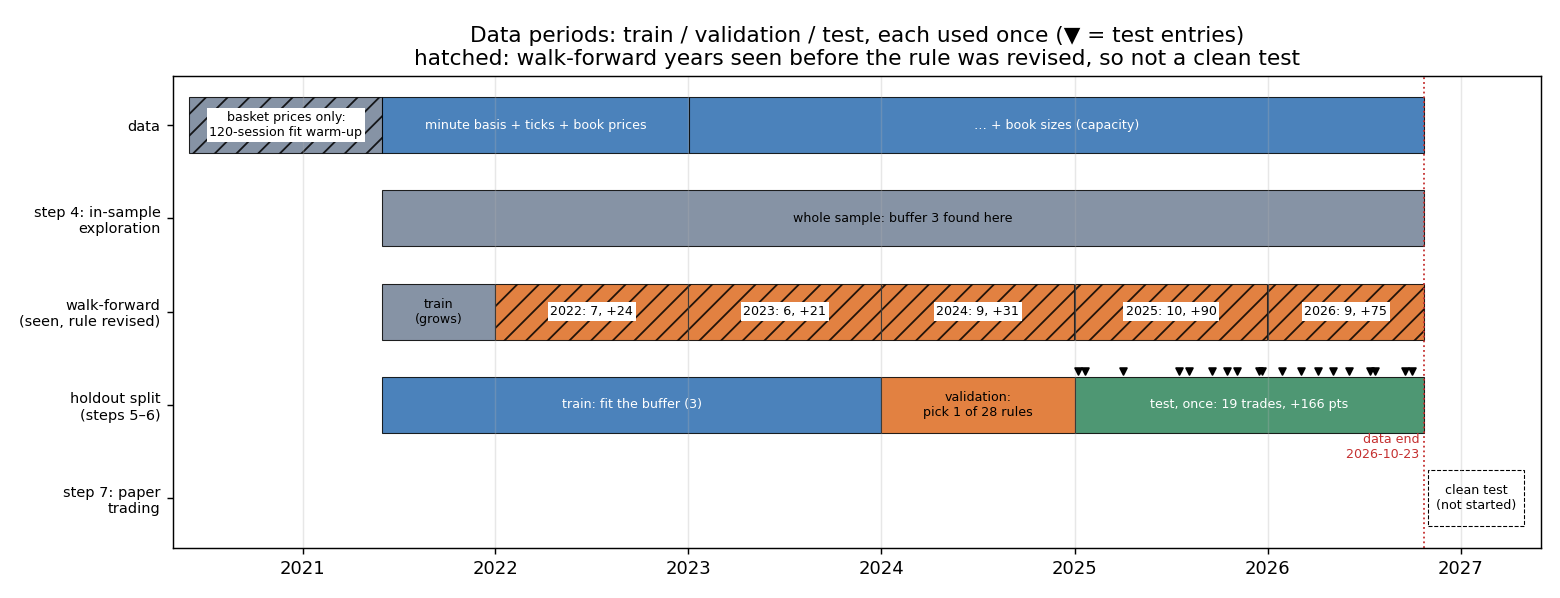
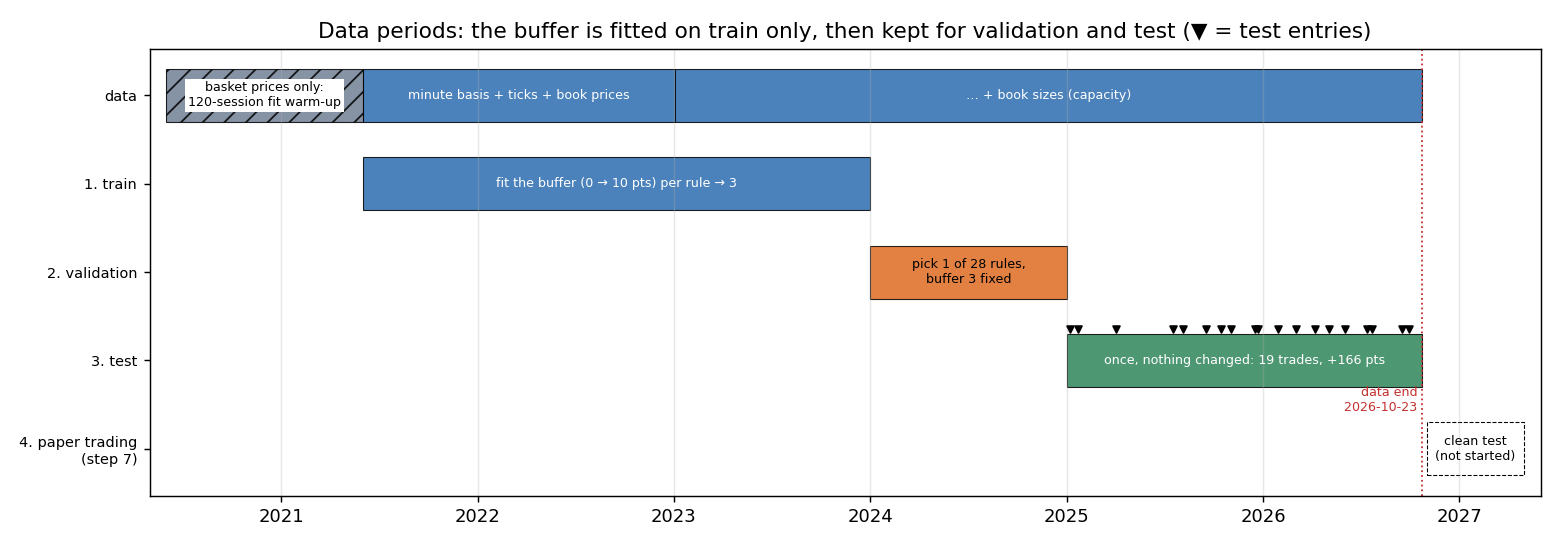
project5: keep the train buffer for validation and test (no refit)
The buffer is fitted on train only and kept fixed; validation picks the
rule, test is scored once. Results unchanged (buffer 3, 19 test trades,
+165.9). The data-periods chart now shows only train / validation / test
and paper trading.

Changed region(s): [[0.0, 0.0311, 1.0, 0.9652], [0.9846, 0.0934, 1.0, 0.1245]]

diff --git a/scripts/make_figures.py b/scripts/make_figures.py
@@ -204,48 +204,43 @@ def capacity(R: Path, out: Path) -> None:
 
 
 def data_periods(R: Path, out: Path) -> None:
-    """Which data each stage saw: warm-up, step-4 exploration, walk-forward, the train /
-    validation / test split, paper trading."""
+    """Which data each stage saw: warm-up, train / validation / test, paper trading."""
     T = pd.Timestamp
     start, end = T("2021-06-01"), T("2026-10-23")
-    folds = pd.read_csv(R / "walkforward_intraday_expiry" / "folds.csv")
     test = pd.read_csv(R / "holdout_split" / "test_trades.csv", parse_dates=["date"])
     var = pd.read_csv(R / "holdout_split" / "variants.csv")
-    rows = []                                        # (label, [(from, to, colour, hatch, text)])
-    rows.append(("data", [(T("2020-06-01"), start, GREY, "//", "basket prices only:\n120-session fit warm-up"),
-                          (start, T("2023-01-03"), BLUE, "", "minute basis + ticks + book prices"),
-                          (T("2023-01-03"), end, BLUE, "", "… + book sizes (capacity)")]))
-    rows.append(("step 4: in-sample\nexploration", [(start, end, GREY, "", "whole sample: buffer 3 found here")]))
-    wf = [(start, T("2022-01-01"), GREY, "", "train\n(grows)")]
-    for f in folds.itertuples():
-        y0, y1 = T(f"{f.test_year}-01-01"), min(T(f"{f.test_year}-12-31"), end)
-        wf.append((y0, y1, ORANGE, "//", f"{f.test_year}: {f.test_n}, {f.test_total:+.0f}"))
-    rows.append(("walk-forward\n(seen, rule revised)", wf))
-    n_var = len(var)
-    rows.append(("holdout split\n(steps 5–6)", [
-        (start, T("2024-01-01"), BLUE, "", "train: fit the buffer (3)"),
-        (T("2024-01-01"), T("2025-01-01"), ORANGE, "", f"validation:\npick 1 of {n_var} rules"),
-        (T("2025-01-01"), end, GREEN, "", f"test, once: {len(test)} trades, {test['net'].sum():+.0f} pts")]))
-    rows.append(("step 7: paper\ntrading", [(T("2026-11-01"), T("2027-05-01"), "white", "", "clean test\n(not started)")]))
+    b = test["buffer"].iloc[0]
+    rows = [                                         # (label, [(from, to, colour, hatch, text)])
+        ("data", [(T("2020-06-01"), start, GREY, "//", "basket prices only:\n120-session fit warm-up"),
+                  (start, T("2023-01-03"), BLUE, "", "minute basis + ticks + book prices"),
+                  (T("2023-01-03"), end, BLUE, "", "… + book sizes (capacity)")]),
+        ("1. train", [(start, T("2024-01-01"), BLUE, "",
+                       f"fit the buffer (0 → 10 pts) per rule → {b:g}")]),
+        ("2. validation", [(T("2024-01-01"), T("2025-01-01"), ORANGE, "",
+                            f"pick 1 of {len(var)} rules,\nbuffer {b:g} fixed")]),
+        ("3. test", [(T("2025-01-01"), end, GREEN, "",
+                      f"once, nothing changed: {len(test)} trades, {test['net'].sum():+.0f} pts")]),
+        ("4. paper trading\n(step 7)", [(T("2026-11-01"), T("2027-05-01"), "white", "", "clean test\n(not started)")]),
+    ]
 
-    fig, ax = plt.subplots(figsize=(12, 4.6))
+    fig, ax = plt.subplots(figsize=(12, 4.2))
     for i, (lab, bars) in enumerate(rows):
         yy = len(rows) - 1 - i
-        for a, b, c, h, txt in bars:
-            ax.barh(yy, (b - a).days, left=a, height=0.6, color=c, alpha=0.85 if c != "white" else 1,
+        for a, b_, c, h, txt in bars:
+            ax.barh(yy, (b_ - a).days, left=a, height=0.6, color=c, alpha=0.85 if c != "white" else 1,
                     hatch=h, edgecolor="black", lw=0.6, ls="--" if c == "white" else "-")
             light = c in (GREY, "white", ORANGE) or h
-            ax.text(a + (b - a) / 2, yy, txt, ha="center", va="center", fontsize=7,
+            ax.text(a + (b_ - a) / 2, yy, txt, ha="center", va="center", fontsize=7,
                     color="black" if light else "white",
                     bbox=dict(facecolor="white", edgecolor="none", pad=1.5) if h else None)
-        if lab.startswith("holdout"):
+        if lab == "3. test":
             ax.scatter(test["date"], [yy + 0.36] * len(test), marker="v", s=14, color="black", zorder=3)
     ax.set_yticks(range(len(rows)), [r[0] for r in rows][::-1], fontsize=8)
     ax.set_xlim(T("2020-05-01"), T("2027-06-01"))
     ax.axvline(end, color=RED, lw=1, ls=":")
     ax.text(end, 0.55, "data end \n2026-10-23 ", color=RED, fontsize=7, ha="right", va="center")
-    ax.set_title("Data periods: train / validation / test, each used once (▼ = test entries)\n"
-                 "hatched: walk-forward years seen before the rule was revised, so not a clean test")
+    ax.set_title("Data periods: the buffer is fitted on train only, then kept for validation and test "
+                 "(▼ = test entries)")
     ax.grid(axis="x", alpha=0.3)
     save(fig, out / "09_data_periods.png")
 

diff --git a/scripts/holdout_split.py b/scripts/holdout_split.py
@@ -28,8 +28,9 @@ it was run:
      2. validation: score each variant with its train buffer; pick the highest
         validation total net with ≥ --min-trades trades; ties go to the variant
         with fewer filters, then the lower buffer
-     3. refit the buffer of the chosen variant on train + validation
-     4. test: trade the test period once with that rule; report whatever comes out
+     3. test: trade the test period once with the chosen variant and its train
+        buffer (no refit: validation and test both use the buffer from train only);
+        report whatever comes out
 
 Caveat: the analyst had already seen 2022–2026 results before writing this, so the
 split limits but cannot remove that knowledge. Paper trading after the data end is
@@ -216,7 +217,7 @@ def main() -> None:
     ok = var[var["val_n"] >= args.min_trades]
     pick = ok.sort_values(["val_total", "filters", "buffer"], ascending=[False, True, True]).iloc[0]
     v = VARIANTS[int(pick["variant"])]
-    b_final, tv_total, tv_n = fit_buffer(f, v, "train", "validation")
+    b_final = float(pick["buffer"])                       # from train only, no refit
 
     test = period(trades(f, v, b_final), "test")
     open_n = int(trades(f, v, b_final).pipe(lambda t: t[(t["date"] >= bounds["test"][0]) & t["net"].isna()]).shape[0])
@@ -232,7 +233,7 @@ def main() -> None:
 
     args.outdir.mkdir(parents=True, exist_ok=True)
     var.sort_values("val_total", ascending=False).to_csv(args.outdir / "variants.csv", index=False)
-    test.reset_index().to_csv(args.outdir / "test_trades.csv", index=False)
+    test.reset_index().assign(buffer=b_final).to_csv(args.outdir / "test_trades.csv", index=False)
 
     vnd = args.multiplier / 1e6
     top = var.sort_values(["val_total", "filters", "buffer"], ascending=[False, True, True]).head(10)
@@ -253,8 +254,9 @@ def main() -> None:
         "|---|---|---|---|---|---|---|---|",
         *[f"| {x.rule} | {x.filters} | {x.buffer:g} | {x.train_n} | {x.train_total:+.1f} | {x.val_n} "
           f"| {x.val_total:+.1f} | {x.val_mean:+.2f} |" for x in top.itertuples()],
-        "", f"**Chosen: {describe(v)}; buffer refitted on train + validation = {b_final:g} "
-        f"({tv_n} trades, {tv_total:+.1f}).**", "",
+        "", f"**Chosen: {describe(v)}, buffer {b_final:g} from train "
+        f"({int(pick['train_n'])} trades, {pick['train_total']:+.1f}; validation {int(pick['val_n'])} trades, "
+        f"{pick['val_total']:+.1f}). The same buffer is used for validation and test.**", "",
         "## Test (scored once)", "",
         "| delay | trades | total | mean | t | >0 |", "|---|---|---|---|---|---|",
         f"| {delay} s | {ts['n']} | {ts['total']:+.1f} | {ts['mean']:+.2f} | {ts['t']:+.2f} | {ts['share_pos']:.0%} |",

diff --git a/README.md b/README.md
@@ -11,18 +11,18 @@ and short the future, then hold until expiry, when the basis is forced to zero.
 | period | dates | used for |
 |---|---|---|
 | warm-up | 2020-06 → 2021-05 | basket prices only: the first 120-session fit of the hedge basket |
-| **train** | 2021-06-01 → 2023-12-31 | fit the buffer for each candidate rule |
-| **validation** | 2024-01-01 → 2024-12-31 | choose one of 28 candidate rules, automatically |
-| **test** | 2025-01-01 → 2026-10-23 | the chosen rule, scored once: 19 trades, +166 pts |
-| clean test | from 2026-11 (step 7, not started) | paper trading |
+| **1. train** | 2021-06-01 → 2023-12-31 | fit the buffer (0 → 10 pts) for each candidate rule → 3 |
+| **2. validation** | 2024-01-01 → 2024-12-31 | choose one of 28 candidate rules, each with its train buffer (no refit) |
+| **3. test** | 2025-01-01 → 2026-10-23 | the chosen rule and buffer, scored once: 19 trades, +166 pts |
+| 4. paper trading | from 2026-11 (step 7, not started) | clean test |
 
-Each period is used once, in that order, and the protocol (periods, candidate rules,
-selection) is fixed in `scripts/holdout_split.py` before it runs. A trade counts in a
-period only if it also expires inside it, so no outcome crosses a boundary. The earlier
-anchored walk-forward (hatched) scored 2022–2026 out of sample, but the entry rule was
-revised after those results were seen, so it is not a clean test; see
-[6e](#6e-train--validation--test-split-scriptsholdout_splitpy). The analyst had seen
-these years before the split too, so only paper trading is untouched.
+The buffer is chosen on train only and then kept fixed for validation and test. Each
+period is used once, in that order, and the protocol (periods, candidate rules, buffer
+grid, selection) is fixed in `scripts/holdout_split.py` before it runs. A trade counts in
+a period only if it also expires inside it, so no outcome crosses a boundary. The
+analyst had seen these years in earlier exploration (step 4, the walk-forward in 6b),
+so only paper trading is untouched; see
+[6e](#6e-train--validation--test-split-scriptsholdout_splitpy).
 
 ## TL;DR
 
@@ -384,7 +384,7 @@ were not used to change the rule, the selection is redone on a fixed protocol:
 3. **Validation (2024):** the variant with the best validation total wins (ties go to
    fewer filters). The winner is *up to expiry day, signals ≤ 14:15* (8 trades, +31.9).
    The unfiltered rule scored +31.3 and the ≥ 7-day rules +27.4, so this is close to a tie.
-4. **Refit the buffer on train + validation:** 3 (29 trades, +176.6).
+4. **No refit:** the buffer from train (3) is kept for validation and test.
 5. **Test (2025-01 → 2026-10), once:**
 
 | fill delay | trades | total | mean | t | > 0 |
@@ -473,7 +473,7 @@ python scripts/walk_forward_intraday.py --delay 60 --min-days-expiry 7 --outdir 
 python scripts/walk_forward_intraday.py --delay 5 --min-days-expiry 7 --outdir result/walkforward_intraday_delay5
     # other variants: --late-vol-cap 25, --max-fut-spread 0.5
 
-# step 6e (train 2021-06→2023, validation 2024, test 2025→; reuses the fills caches)
+# step 6e (train 2021-06→2023 fits the buffer, validation 2024 picks the rule, test 2025→ once)
 python scripts/holdout_split.py                  # → result/holdout_split
 
 # step 6d (capacity) and figures

diff --git a/result/holdout_split/FINDINGS.md b/result/holdout_split/FINDINGS.md
@@ -25,7 +25,7 @@ Fees 17 bps round trip, carry 4.5%, fill 5 s after the signal at bid/ask, 1 cont
 | up to expiry day, vol < 25% when < 7 days | 1 | 3 | 18 | +120.9 | 9 | +31.3 | +3.48 |
 | up to expiry day, vol < 25% | 1 | 3 | 15 | +84.1 | 9 | +31.3 | +3.48 |
 
-**Chosen: up to expiry day, signals ≤ 14:15; buffer refitted on train + validation = 3 (29 trades, +176.6).**
+**Chosen: up to expiry day, signals ≤ 14:15, buffer 3 from train (21 trades, +144.7; validation 8 trades, +31.9). The same buffer is used for validation and test.**
 
 ## Test (scored once)
 
